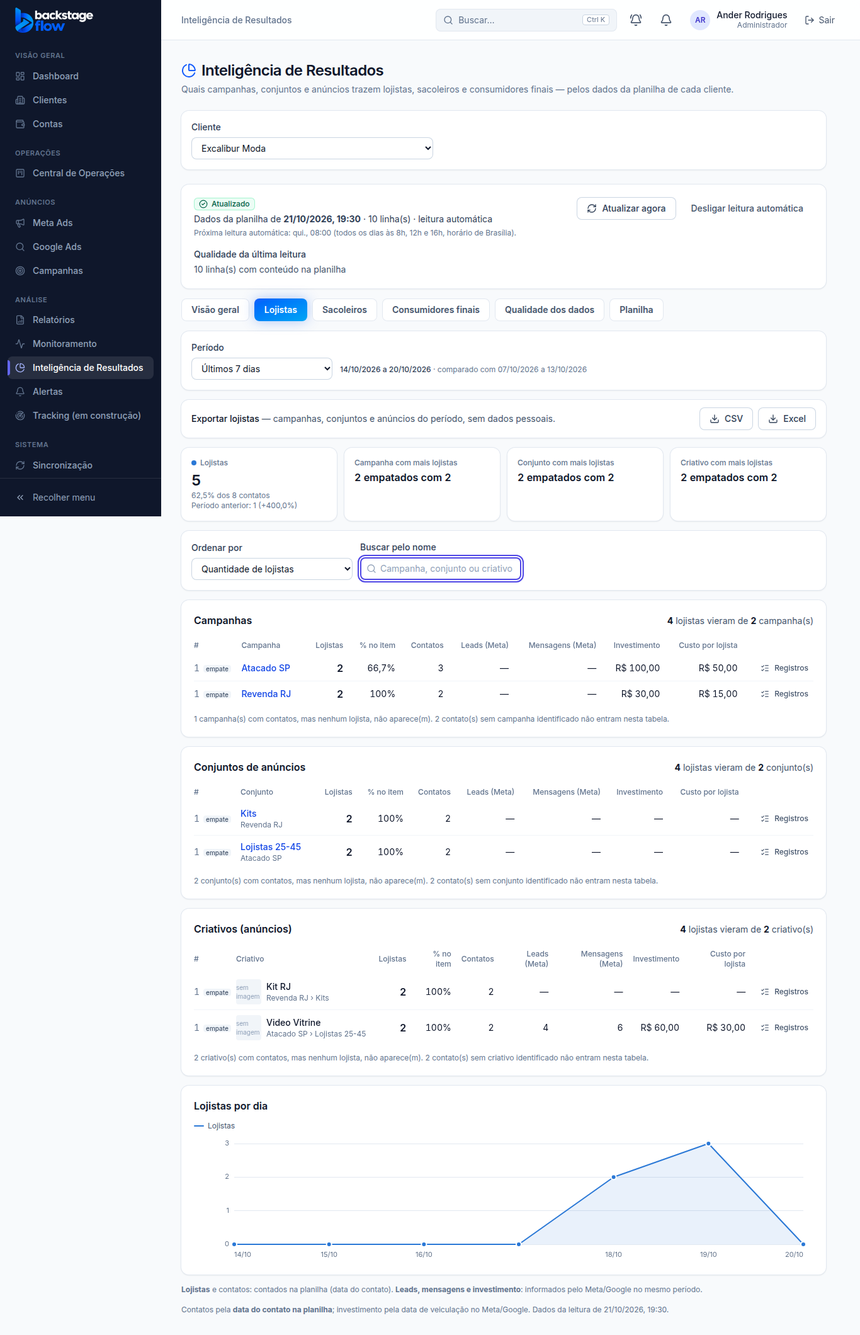
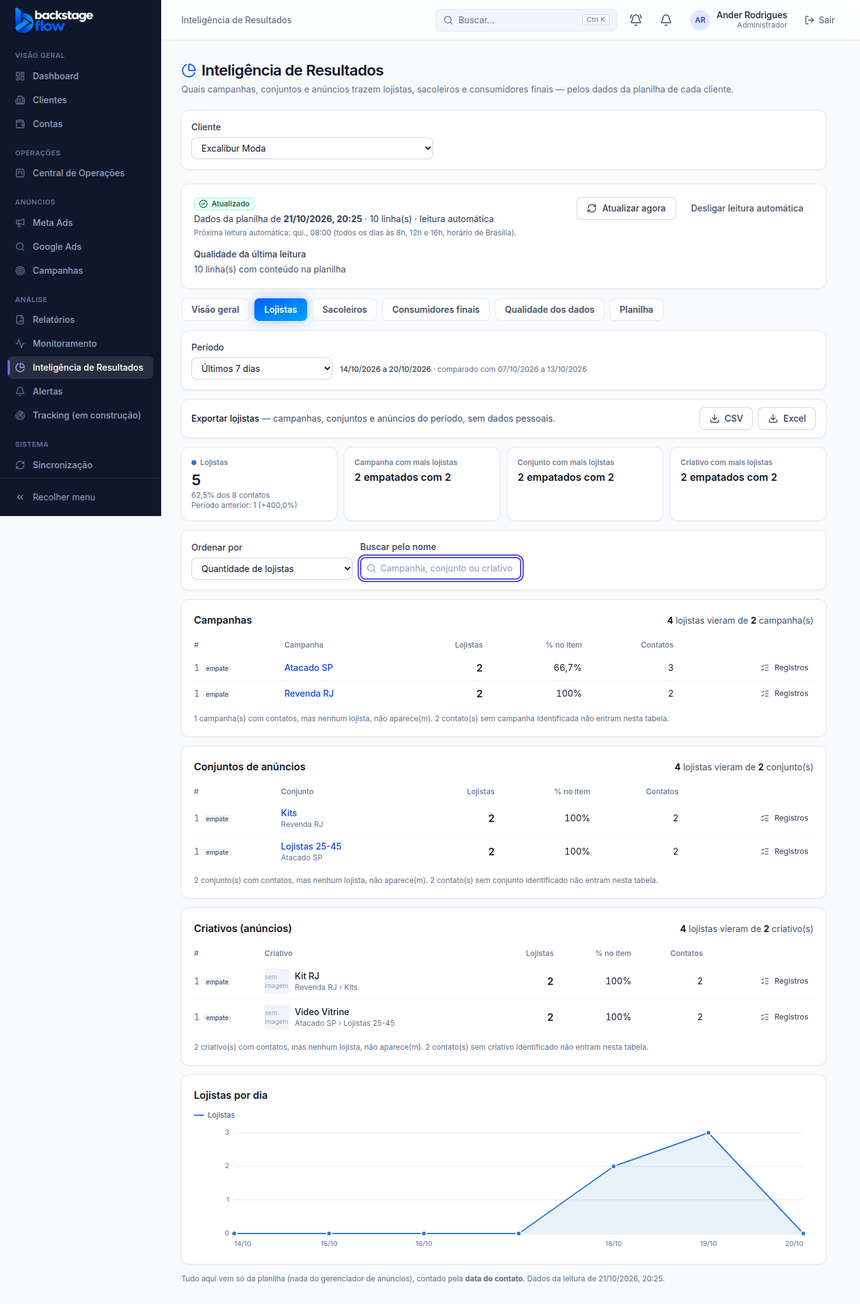
Inteligência de Resultados: só números da planilha, sem dados do gerenciador
Tira das abas de perfil, da Visão geral e da exportação as colunas Leads (Meta),
Mensagens (Meta), Investimento e Custo por perfil, e a ordenação por custo.
A apresentação (campanhas, conjuntos e criativos, filtros, busca, registros)
fica igual. Testes e documentação atualizados.

Claude-Session: https://claude.ai/code/session_01A5ivfSd6VbkwRJFYwrhVNk

diff --git a/apps/web/src/features/results/ResultsDashboard.tsx b/apps/web/src/features/results/ResultsDashboard.tsx
@@ -1,6 +1,6 @@
 import {
-  addDays, classifiedShare, costPerContact, type DateRange, profileShare, rankItems, type RiLevel, type RiProfile,
-  type RiRankMetric, type RiResultItem, type RiResults, type RiSpend, topFor,
+  addDays, classifiedShare, type DateRange, profileShare, rankItems, type RiLevel, type RiProfile,
+  type RiRankMetric, type RiResultItem, type RiResults, topFor,
 } from "@backstage/shared";
 import { ListChecks, Search } from "lucide-react";
 import { useMemo, useState } from "react";
@@ -13,7 +13,7 @@ import { type DashboardFilters, type ResolvedPeriod } from "@/features/dashboard
 import { PeriodPicker } from "@/features/structure/PeriodPicker.tsx";
 import { cn } from "@/lib/cn.ts";
 import { errorMessage } from "@/lib/errors.ts";
-import { formatChange, formatDate, formatDateTime, formatMoney } from "@/lib/format.ts";
+import { formatChange, formatDate, formatDateTime } from "@/lib/format.ts";
 import { type RiDailyRow, type RiSource, useRiDaily, useRiResults } from "./api.ts";
 import { ExportBar } from "./ExportBar.tsx";
 import { PROFILE_LOOK, PROFILES, RANKED_PROFILES } from "./look.ts";
@@ -27,7 +27,6 @@ const LEVEL_LABEL: Record<RiLevel, { one: string; many: string; of: string }> = 
 
 const int = (n: number) => n.toLocaleString("pt-BR");
 const pct = (n: number | null) => (n == null ? "—" : `${n.toLocaleString("pt-BR", { maximumFractionDigits: 1 })}%`);
-const spendText = (spend: RiSpend[]) => (spend.length ? spend.map((s) => formatMoney(s.spend_micros / 1e6, s.currency)).join(" + ") : "—");
 
 export interface ResultsView {
   filters: DashboardFilters;
@@ -108,21 +107,18 @@ function Overview({ clientId, period, onRecords }: { clientId: string; period: R
       <Card className="space-y-3 p-5">
         <div className="flex flex-wrap items-baseline justify-between gap-2">
           <h2 className="text-base font-semibold text-slate-900">Campanhas por perfil</h2>
-          <p className="text-xs text-slate-500">Contatos únicos de cada perfil · investimento do Meta/Google no mesmo período</p>
+          <p className="text-xs text-slate-500">Contatos únicos de cada perfil, contados na planilha</p>
         </div>
         {cur.data.items.length === 0 ? (
           <p className="text-sm text-slate-500">Nenhum contato do período foi ligado a uma campanha.</p>
         ) : (
           <div className="overflow-x-auto">
-            <table className="w-full min-w-[800px] text-sm" data-testid="ri-overview-campaigns">
+            <table className="w-full min-w-[640px] text-sm" data-testid="ri-overview-campaigns">
               <thead className="text-left text-xs text-slate-500">
                 <tr>
                   <th className="py-2 pr-3 font-medium">Campanha</th>
                   <th className="px-2 py-2 text-right font-medium">Contatos</th>
                   {PROFILES.map((pr) => <th key={pr} className="px-2 py-2 text-right font-medium">{PROFILE_LOOK[pr].plural}</th>)}
-                  <th className="px-2 py-2 text-right font-medium">Leads (Meta)</th>
-                  <th className="px-2 py-2 text-right font-medium">Mensagens (Meta)</th>
-                  <th className="py-2 pl-2 text-right font-medium">Investimento</th>
                 </tr>
               </thead>
               <tbody className="divide-y divide-slate-100">
@@ -131,9 +127,6 @@ function Overview({ clientId, period, onRecords }: { clientId: string; period: R
                     <td className="max-w-64 truncate py-2 pr-3 font-medium text-slate-900" title={i.name}>{i.name}</td>
                     <td className="px-2 py-2 text-right tabular-nums">{int(i.contacts)}</td>
                     {PROFILES.map((pr) => <td key={pr} className="px-2 py-2 text-right tabular-nums">{int(i[pr])}</td>)}
-                    <td className="px-2 py-2 text-right tabular-nums">{metaNumber(i.leads)}</td>
-                    <td className="px-2 py-2 text-right tabular-nums">{metaNumber(i.messages)}</td>
-                    <td className="py-2 pl-2 text-right tabular-nums">{spendText(i.spend)}</td>
                   </tr>
                 ))}
               </tbody>
@@ -229,7 +222,7 @@ function OriginNote({ results, onRecords }: { results: RiResults; onRecords: (t:
 function ReadNote({ results }: { results: RiResults }) {
   return (
     <p className="text-xs text-slate-500" data-testid="ri-read-note">
-      Contatos pela <strong>data do contato na planilha</strong>; investimento pela data de veiculação no Meta/Google.
+      Tudo aqui vem só da planilha (nada do gerenciador de anúncios), contado pela <strong>data do contato</strong>.
       {results.read_at && <> Dados da leitura de {formatDateTime(results.read_at)}.</>}
     </p>
   );
@@ -269,8 +262,8 @@ function DailyChart({ range, rows, error, profiles }: { range: DateRange; rows: 
 
 /**
  * Aba de um perfil (pedido do Ander, 21/10/2026): campanhas, conjuntos e criativos
- * aparecem juntos, cada um com a quantidade do perfil (planilha) e os leads/mensagens
- * do Meta. Clicar numa campanha ou conjunto filtra as tabelas de baixo (sem trocar de tela).
+ * aparecem juntos, cada um com a quantidade do perfil. Só números da planilha, nada do
+ * gerenciador de anúncios (correção do Ander, 21/10/2026). Clicar numa campanha ou conjunto filtra as tabelas de baixo (sem trocar de tela).
  */
 function ProfileTab({ clientId, profile, period, view, onRecords }: {
   clientId: string; profile: (typeof RANKED_PROFILES)[number]; period: ResolvedPeriod; view: ResultsView; onRecords: (t: RecordsTarget) => void;
@@ -313,7 +306,6 @@ function ProfileTab({ clientId, profile, period, view, onRecords }: {
               <Select id={id} value={view.metric} onChange={(e) => view.onChange({ ordem: e.target.value as RiRankMetric })}>
                 <option value="count">Quantidade de {look.plural.toLowerCase()}</option>
                 <option value="share">% de {look.plural.toLowerCase()} no item</option>
-                <option value="cost">Custo por {look.label.toLowerCase()} (menor primeiro)</option>
               </Select>
             )}
           </Field>
@@ -350,9 +342,6 @@ function ProfileTab({ clientId, profile, period, view, onRecords }: {
         <h2 className="text-base font-semibold text-slate-900">{look.plural} por dia{view.campaignId && <span className="font-normal text-slate-500"> · {view.adGroupId ? adGroupName : campaignName}</span>}</h2>
         <DailyChart range={period.current} rows={daily.data} error={daily.error} profiles={[profile]} />
       </Card>
-      <p className="text-xs text-slate-500">
-        <strong>{look.plural}</strong> e contatos: contados na planilha (data do contato). <strong>Leads, mensagens e investimento</strong>: informados pelo Meta/Google no mesmo período.
-      </p>
       <ReadNote results={camps.data} />
     </div>
   );
@@ -404,7 +393,7 @@ function LevelSection({ title, level, query, profile, view, onRecords, onOpen, s
         ) : (
           // relative: o texto só para leitor de tela (sr-only) fica preso aqui e não alarga a página no celular.
           <div className="relative overflow-x-auto">
-            <table className="w-full min-w-[860px] text-sm" data-testid="ri-ranking">
+            <table className="w-full min-w-[640px] text-sm" data-testid="ri-ranking">
               <thead className="text-left text-xs text-slate-500">
                 <tr>
                   <th className="py-2 pr-2 font-medium">#</th>
@@ -412,16 +401,11 @@ function LevelSection({ title, level, query, profile, view, onRecords, onOpen, s
                   <th className="px-2 py-2 text-right font-medium">{look.plural}</th>
                   <th className="px-2 py-2 text-right font-medium">% no item</th>
                   <th className="px-2 py-2 text-right font-medium">Contatos</th>
-                  <th className="px-2 py-2 text-right font-medium">Leads (Meta)</th>
-                  <th className="px-2 py-2 text-right font-medium">Mensagens (Meta)</th>
-                  <th className="px-2 py-2 text-right font-medium">Investimento</th>
-                  <th className="px-2 py-2 text-right font-medium">Custo por {look.label.toLowerCase()}</th>
                   <th className="py-2 pl-2"><span className="sr-only">Ações</span></th>
                 </tr>
               </thead>
               <tbody className="divide-y divide-slate-100">
                 {shown.map((r) => {
-                  const cost = costPerContact(r.spend, r[profile]);
                   const selected = selectedId === r.id;
                   return (
                     <tr key={r.id} data-testid="ri-ranking-row" className={cn(selected && "bg-blue-50")}>
@@ -446,12 +430,6 @@ function LevelSection({ title, level, query, profile, view, onRecords, onOpen, s
                       <td className="px-2 py-2 text-right text-base font-semibold tabular-nums text-slate-900">{int(r[profile])}</td>
                       <td className="px-2 py-2 text-right tabular-nums">{pct(profileShare(r, profile))}</td>
                       <td className="px-2 py-2 text-right tabular-nums">{int(r.contacts)}</td>
-                      <td className="px-2 py-2 text-right tabular-nums">{metaNumber(r.leads)}</td>
-                      <td className="px-2 py-2 text-right tabular-nums">{metaNumber(r.messages)}</td>
-                      <td className="px-2 py-2 text-right tabular-nums">{spendText(r.spend)}</td>
-                      <td className="px-2 py-2 text-right tabular-nums" title={cost ? undefined : "Sem investimento informado no período (ou em mais de uma moeda)"}>
-                        {cost ? formatMoney(cost.micros / 1e6, cost.currency) : "—"}
-                      </td>
                       <td className="py-2 pl-2 text-right">
                         <Button type="button" variant="ghost" className="px-2 py-1 text-xs" onClick={() => onRecords({
                           title: `${look.plural} · ${r.name}`, profile,
@@ -481,6 +459,3 @@ function LevelSection({ title, level, query, profile, view, onRecords, onOpen, s
     </Card>
   );
 }
-
-/** Leads/mensagens do Meta: "—" quando a plataforma não informou nada no período. */
-const metaNumber = (n: number | null | undefined) => (n == null ? "—" : int(Math.round(Number(n))));

diff --git a/apps/web/src/features/results/export.ts b/apps/web/src/features/results/export.ts
@@ -1,7 +1,7 @@
 // Etapa 39.5 — exportação da Inteligência de Resultados (CSV e Excel), gerada no navegador
 // a partir dos mesmos números da tela. Sem dados pessoais: só campanhas, conjuntos, anúncios e contagens.
 import {
-  classifiedShare, costPerContact, type DateRange, profileShare, rankItems, RI_PROFILE_LABELS, type RiProfile, type RiResultItem, type RiResults,
+  classifiedShare, type DateRange, profileShare, rankItems, type RiProfile, type RiResultItem, type RiResults,
 } from "@backstage/shared";
 import type { Cell, Report, ReportTable, SheetName } from "@/features/reports/model.ts";
 import { formatDate, formatDateTime } from "@/lib/format.ts";
@@ -14,13 +14,6 @@ const ALL: RiProfile[] = ["lojista", "sacoleiro", "consumidor_final", "nao_ident
 const t = (v: string | null): Cell => ({ value: v, format: "text" });
 const n = (v: number | null): Cell => ({ value: v, format: "integer" });
 const pct = (v: number | null): Cell => ({ value: v, format: "percent" });
-const money = (v: number | null): Cell => ({ value: v, format: "money" });
-
-/** Investimento numa moeda só; com mais de uma moeda (nunca somamos) fica vazio e a coluna Moeda diz quais. */
-function spendCells(item: RiResultItem): [Cell, Cell] {
-  if (item.spend.length === 1) return [money(item.spend[0].spend_micros / 1e6), t(item.spend[0].currency)];
-  return [money(null), t(item.spend.length ? item.spend.map((s) => s.currency).join(" + ") : null)];
-}
 
 type Level = { sheet: SheetName; title: string; data: RiResults; parents: ("campaign" | "ad_group")[] };
 
@@ -30,21 +23,18 @@ function levelTable(l: Level, profile: ExportProfile): ReportTable {
   if (profile === "todos") {
     return {
       title: l.title, sheet: l.sheet, currency: null,
-      columns: [...parentCols, l.title.replace(/s$/, ""), "Contatos", ...ALL.map((p) => PLURAL[p]), "Leads (Meta)", "Mensagens (Meta)", "Investimento", "Moeda", "Linhas ligadas pelo nome"],
+      columns: [...parentCols, l.title.replace(/s$/, ""), "Contatos", ...ALL.map((p) => PLURAL[p]), "Linhas ligadas pelo nome"],
       rows: [...l.data.items].sort((a, b) => b.contacts - a.contacts || a.name.localeCompare(b.name, "pt-BR"))
-        .map((i) => [...parentCells(i), t(i.name), n(i.contacts), ...ALL.map((p) => n(i[p])), n(i.leads ?? null), n(i.messages ?? null), ...spendCells(i), n(i.by_name)]),
+        .map((i) => [...parentCells(i), t(i.name), n(i.contacts), ...ALL.map((p) => n(i[p])), n(i.by_name)]),
     };
   }
-  const label = RI_PROFILE_LABELS[profile].toLowerCase();
   return {
     title: l.title, sheet: l.sheet, currency: null,
     columns: ["Posição", "Empate", ...parentCols, l.title.replace(/s$/, ""), PLURAL[profile], `% de ${PLURAL[profile].toLowerCase()} no item`, "Contatos",
-      "Leads (Meta)", "Mensagens (Meta)", "Investimento", "Moeda", `Custo por ${label}`, "Linhas ligadas pelo nome"],
-    rows: rankItems(l.data.items, profile, "count").map((r) => {
-      const cost = costPerContact(r.spend, r[profile]);
-      return [n(r.position), t(r.tied ? "sim" : "não"), ...parentCells(r), t(r.name), n(r[profile]), pct(profileShare(r, profile)), n(r.contacts),
-        n(r.leads ?? null), n(r.messages ?? null), ...spendCells(r), money(cost ? cost.micros / 1e6 : null), n(r.by_name)];
-    }),
+      "Linhas ligadas pelo nome"],
+    rows: rankItems(l.data.items, profile, "count").map((r) => [
+      n(r.position), t(r.tied ? "sim" : "não"), ...parentCells(r), t(r.name), n(r[profile]), pct(profileShare(r, profile)), n(r.contacts), n(r.by_name),
+    ]),
   };
 }
 
@@ -91,7 +81,7 @@ export function resultsReport(input: ResultsExportInput): Report {
       `Período: ${formatDate(input.range.from)} a ${formatDate(input.range.to)} (data do contato na planilha)`,
       `Perfil: ${who}`,
       input.campaigns.read_at ? `Dados da leitura da planilha de ${formatDateTime(input.campaigns.read_at)}` : "Planilha ainda não lida",
-      "Investimento: Meta/Google no mesmo período, na moeda de cada conta (moedas nunca são somadas).",
+      "Só números da planilha (nada do gerenciador de anúncios).",
       "Sem dados pessoais: nenhum telefone, e-mail ou nome.",
     ],
     generatedAt: formatDateTime(input.generatedAt.toISOString()),

diff --git a/apps/web/src/features/results/export.test.ts b/apps/web/src/features/results/export.test.ts
@@ -22,19 +22,15 @@ const camps = results([
 const base = { clientName: "Excalibur Moda", range: { from: "2026-10-10", to: "2026-10-16" }, campaigns: camps, adGroups: results([]), ads: results([]), generatedAt: new Date("2026-10-18T12:00:00Z") };
 
 describe("exportação da Inteligência de Resultados (Etapa 39.5)", () => {
-  it("por perfil: ranking com posição, empate, custo e sem misturar moedas", () => {
+  it("por perfil: ranking com posição e empate; só números da planilha (nada do gerenciador)", () => {
     const r = resultsReport({ ...base, profile: "lojista" });
     const t = r.tables.find((x) => x.sheet === "Campanhas")!;
     expect(t.columns.slice(0, 4)).toEqual(["Posição", "Empate", "Campanha", "Lojistas"]);
     expect(t.rows.map((row) => [row[0].value, row[1].value, row[2].value, row[3].value])).toEqual([
       [1, "sim", "Atacado SP", 2], [1, "sim", "Revenda RJ", 2], [3, "não", "Global", 1],
     ]);
-    const custo = t.columns.indexOf("Custo por lojista");
-    expect(t.rows[1][custo].value).toBe(15);
-    const global = t.rows[2];
-    expect(global[t.columns.indexOf("Investimento")].value).toBeNull();
-    expect(global[t.columns.indexOf("Moeda")].value).toBe("BRL + USD");
-    expect(global[custo].value).toBeNull();
+    for (const col of ["Leads (Meta)", "Mensagens (Meta)", "Investimento", "Moeda", "Custo por lojista"]) expect(t.columns).not.toContain(col);
+    expect(r.filters.join(" ")).not.toMatch(/investimento/i);
     expect(t.rows.some((row) => row[2].value === "Varejo")).toBe(false);
   });
 
@@ -42,6 +38,7 @@ describe("exportação da Inteligência de Resultados (Etapa 39.5)", () => {
     const r = resultsReport({ ...base, profile: "todos" });
     const t = r.tables.find((x) => x.sheet === "Campanhas")!;
     expect(t.columns).toContain("Não identificados");
+    expect(t.columns).not.toContain("Investimento");
     expect(t.rows.map((row) => row[0].value)).toEqual(["Atacado SP", "Revenda RJ", "Global", "Varejo"]);
     const csv = reportCsvRows(r).map((l) => l.join(";")).join("\n");
     expect(csv).toContain("Cliente: Excalibur Moda");

diff --git a/apps/web/src/features/results/ResultsPage.tsx b/apps/web/src/features/results/ResultsPage.tsx
@@ -62,7 +62,7 @@ export function ResultsPage() {
     tab: tab === "planilha" || tab === "qualidade" ? "visao" : tab,
     campaignId: uuidParam(params.get("campanha")),
     adGroupId: uuidParam(params.get("conjunto")),
-    metric: (["count", "share", "cost"] as const).find((m) => m === params.get("ordem")) ?? "count",
+    metric: (["count", "share"] as const).find((m) => m === params.get("ordem")) ?? "count",
     search: params.get("busca") ?? "",
     onChange: (patch) => setParam({
       ...("campanha" in patch ? { campanha: patch.campanha ?? null } : {}),

diff --git a/docs/claude/ESTADO-ATUAL.md b/docs/claude/ESTADO-ATUAL.md
@@ -3,7 +3,7 @@
 > Atualize este arquivo ao fim de cada fase: o que ficou pronto, o que ficou pendente e a próxima decisão do Ander.
 
 ## 1. Última entrega
-- **Etapa 39 (Inteligência de Resultados, Google Sheets):** plano `docs/etapa-39-inteligencia-de-resultados/39.0-PLANO.md`, aprovado com mudanças (planilha é o banco; leitura 8h/12h/16h + botão; sem guardar contatos). **39.1 pronta** (17/10): chave da conta de serviço no Vault (`google_sheets_key`, `sheets_settings`), planilha por cliente (`ri_sources`), Edge Function `sheets` publicada (verify_jwt true), menu e assistente. **39.2 pronta** (17/10): leitura 8h/12h/16h (cron `sheets-read`, 11/15/19 UTC) + botão "Atualizar agora"; só a última leitura fica em `ri_snapshots` (sem dados pessoais legíveis, contato em hash); situação/falhas em `ri_sources`; Edge Function `sheets` agora com verify_jwt **false** (ela confere login ou segredo do cron). Falta a chave real do Ander (nada testado com planilha real). **39.3 pronta** (17/10): `ri_results`/`ri_records` + `private.ri_rows` (perfil pelas regras na hora da consulta; origem por ID anúncio→conjunto→campanha, ou nome único; contato único por hash), regras de ranking em `packages/shared/src/results/ranking.ts`. **39.4 pronta** (17/10): abas Visão geral/Lojistas/Sacoleiros/Consumidores/Planilha em `features/results` (ResultsDashboard, RecordsModal, look.ts), `ri_daily`, atalho na ficha do cliente, mock com a mesma regra de ligação (`riRows`). **39.5 pronta** (18/10): aba Qualidade dos dados (`ri_quality`, `ri_records` sem período), exportação CSV/Excel por perfil (`features/results/export.ts`, reaproveita `reportXlsx` com abas Conjuntos/Anúncios). **Etapa 39 completa no código; falta a primeira leitura real** (chave do Google do Ander). **19/10:** parâmetros da planilha refeitos (`39.6-PARAMETROS-DA-PLANILHA.md`): Nome (não guardado), Número, SQL (era "Perfil comercial"), Data, utm_source/medium/campaign/content/term, IDs, gclid/fbclid (só a marcação), personalizados `x:<nome>` (até 20); `ri_records_extra`; Edge Function `sheets` v3. **21/10:** aba de cada perfil mostra campanhas, conjuntos e criativos juntos (`LevelSection` em `ResultsDashboard.tsx`), com Leads/Mensagens do Meta (`ri_results` → `leads`/`messages`); ponto de volta em `docs/PONTO-DE-RESTAURACAO.md`.
+- **Etapa 39 (Inteligência de Resultados, Google Sheets):** plano `docs/etapa-39-inteligencia-de-resultados/39.0-PLANO.md`, aprovado com mudanças (planilha é o banco; leitura 8h/12h/16h + botão; sem guardar contatos). **39.1 pronta** (17/10): chave da conta de serviço no Vault (`google_sheets_key`, `sheets_settings`), planilha por cliente (`ri_sources`), Edge Function `sheets` publicada (verify_jwt true), menu e assistente. **39.2 pronta** (17/10): leitura 8h/12h/16h (cron `sheets-read`, 11/15/19 UTC) + botão "Atualizar agora"; só a última leitura fica em `ri_snapshots` (sem dados pessoais legíveis, contato em hash); situação/falhas em `ri_sources`; Edge Function `sheets` agora com verify_jwt **false** (ela confere login ou segredo do cron). Falta a chave real do Ander (nada testado com planilha real). **39.3 pronta** (17/10): `ri_results`/`ri_records` + `private.ri_rows` (perfil pelas regras na hora da consulta; origem por ID anúncio→conjunto→campanha, ou nome único; contato único por hash), regras de ranking em `packages/shared/src/results/ranking.ts`. **39.4 pronta** (17/10): abas Visão geral/Lojistas/Sacoleiros/Consumidores/Planilha em `features/results` (ResultsDashboard, RecordsModal, look.ts), `ri_daily`, atalho na ficha do cliente, mock com a mesma regra de ligação (`riRows`). **39.5 pronta** (18/10): aba Qualidade dos dados (`ri_quality`, `ri_records` sem período), exportação CSV/Excel por perfil (`features/results/export.ts`, reaproveita `reportXlsx` com abas Conjuntos/Anúncios). **Etapa 39 completa no código; falta a primeira leitura real** (chave do Google do Ander). **19/10:** parâmetros da planilha refeitos (`39.6-PARAMETROS-DA-PLANILHA.md`): Nome (não guardado), Número, SQL (era "Perfil comercial"), Data, utm_source/medium/campaign/content/term, IDs, gclid/fbclid (só a marcação), personalizados `x:<nome>` (até 20); `ri_records_extra`; Edge Function `sheets` v3. **21/10:** aba de cada perfil mostra campanhas, conjuntos e criativos juntos (`LevelSection` em `ResultsDashboard.tsx`), ponto de volta em `docs/PONTO-DE-RESTAURACAO.md`. No mesmo dia, a pedido do Ander, a tela e a exportação passaram a mostrar **só números da planilha** (sem leads, mensagens, investimento ou custo do gerenciador; o banco ainda calcula `leads`/`messages`/`spend` em `ri_results`, mas nada usa).
 - **Frase do resumo dos relatórios (13/10/2026):** editável por cliente com marcadores (`client_report_settings.summary_template`), desligável também no e-mail semanal; nome do resultado como foi escrito. Edge Function `client-report-email` publicada (versão 2). Documento: `docs/etapa-19-dashboard-cliente/CORRECAO-2026-10-13-FRASE-DO-RESUMO.md`.
 - **Correção do saldo PIX (13/10/2026):** a conta "CA - Estilo de Ser Kids" (cartão cadastrado, campanhas rodando com PIX) usa saldo **informado no CRM**: recargas registradas − gasto que o Meta informa depois. Só contas com `ad_accounts.manual_prepaid` (ligado só nela). Tabela `account_manual_balance_entries`. Documento: `docs/etapa-07-verificacao-saldo/CORRECAO-2026-10-13-SALDO-PIX-INFORMADO.md`.
 - **Correção do saldo (28/09/2026):**

diff --git a/docs/etapa-39-inteligencia-de-resultados/39.7-APRESENTACAO-POR-PERFIL.md b/docs/etapa-39-inteligencia-de-resultados/39.7-APRESENTACAO-POR-PERFIL.md
@@ -12,20 +12,31 @@
    - **Conjuntos de anúncios** (com a campanha embaixo do nome);
    - **Criativos (anúncios)**, com a miniatura quando o Meta informa e "campanha › conjunto" embaixo do nome.
 2. **Resumo em cada tabela:** "4 lojistas vieram de 2 criativo(s)".
-3. **Colunas:** quantidade do perfil (planilha), % do perfil no item, contatos, **Leads (Meta)**, **Mensagens (Meta)**, investimento, custo por contato do perfil e o botão **Registros** (as linhas da planilha daquele item).
+3. **Colunas:** quantidade do perfil, % do perfil no item, contatos e o botão **Registros** (as linhas da planilha daquele item). Tudo contado na planilha (ver a correção abaixo).
 4. **Clicar numa campanha** mostra só os conjuntos e criativos dela; **clicar num conjunto** mostra só os criativos dele. As campanhas continuam na tela, e um aviso "Mostrando só: Campanha …" com ✕ volta a mostrar tudo.
-5. **Ordenar** (quantidade, % ou custo) e **buscar pelo nome** valem para as três tabelas (a busca acha campanha, conjunto ou criativo).
+5. **Ordenar** (quantidade ou %) e **buscar pelo nome** valem para as três tabelas (a busca acha campanha, conjunto ou criativo).
 6. Cada tabela mostra as 10 primeiras e tem "Ver todos".
-7. A Visão geral e a exportação CSV/Excel ganharam as colunas Leads (Meta) e Mensagens (Meta).
+7. A Visão geral e a exportação CSV/Excel mostram só os números da planilha.
 
 ## Regras
-- Quantidade do perfil e contatos vêm **da planilha** (data do contato); leads, mensagens e investimento vêm **do Meta/Google** no mesmo período. A tela avisa isso embaixo.
-- Sem dado da plataforma no período → "—" (nada inventado).
+- **Só números da planilha** (data do contato). Nada do gerenciador de anúncios: sem leads, mensagens, investimento ou custo. A tela avisa isso embaixo.
+- Do Meta/Google ficam só os **nomes** das campanhas, conjuntos e criativos (e a miniatura), para dar nome às linhas da planilha.
+
+## Correção do mesmo dia: só a planilha (21/10/2026)
+> Ander: "Nesse ponto da inteligência de dados, eu não quero que sejam puxados dados da BM. Eu quero os dados somente da
+> planilha. Por exemplo, tem 50 nomes, 20 são sacoleiros, 20 são lojistas e 10 são consumidores finais. Eu quero essa
+> divisão somente na quantidade. [...] Eu não quero nada do gerenciador. [...] a apresentação tá boa."
+
+- Saíram da tela (abas de perfil e Visão geral) as colunas **Leads (Meta)**, **Mensagens (Meta)**, **Investimento** e **Custo por perfil**.
+- Saiu a opção "Ordenar por custo" (um endereço antigo com `ordem=cost` volta para "quantidade").
+- Saíram da exportação CSV/Excel as colunas Leads, Mensagens, Investimento, Moeda e Custo; o cabeçalho diz "Só números da planilha".
+- A apresentação (três tabelas, resumo, filtros, busca, registros, gráfico) ficou igual.
+- O banco não mudou: a função ainda calcula esses números, mas a tela e a exportação não os usam mais.
 
 ## Banco
-- Migração `20261021192656_ri_meta_counts.sql`: a função de resultados passa a trazer leads e mensagens de cada item. **Nenhuma tabela nova.**
+- Migração `20261021192656_ri_meta_counts.sql`: a função de resultados passa a trazer leads e mensagens de cada item (hoje **não usados** pela tela, ver a correção acima). **Nenhuma tabela nova.**
 - Ponto de volta do banco: `supabase/rollback/voltar_ri_apresentacao_2026_10_21.sql`.
 
 ## Testes
 - SQL: `supabase/tests/ri_apresentacao_perfil.sql` (leads/mensagens por criativo; sem dado = vazio) — OK no banco real (desfeito).
-- Navegador: `e2e/results-dashboard.mjs` — 42 verificações (três tabelas na mesma tela, resumo, criativo com campanha › conjunto, leads e mensagens, filtro por campanha e conjunto, busca nas três tabelas, registros do criativo, tirar o filtro). Demais testes do módulo ajustados e passando.
+- Navegador: `e2e/results-dashboard.mjs` — 42 verificações (três tabelas na mesma tela, resumo, criativo com campanha › conjunto, sem colunas do gerenciador, filtro por campanha e conjunto, busca nas três tabelas, registros do criativo, tirar o filtro). Demais testes do módulo ajustados e passando.

diff --git a/docs/claude/HISTORICO.md b/docs/claude/HISTORICO.md
@@ -93,6 +93,7 @@
 - **05/10 (Etapa 38):** Ander achou a Central confusa e pediu o comercial separado da operação, com o cliente passando para a operação quando liberado; a aba "Clientes" virou "Operação". Plano em 2 fases (38.1 telas; 38.2 botão de liberar).
 - **Relatório final:** `docs/etapa-37-monitoramento/37.7-RELATORIO-FINAL.md`.
 - **21/10 (apresentação por perfil):** Ander achou confuso ter de clicar campanha → conjunto → anúncio. Pediu ver de cara campanhas, conjuntos e a lista de criativos que trouxeram cada perfil (ex.: 10 lojistas: 5 de um criativo, 5 de outro), com ponto de volta. Feito: três tabelas na mesma aba, filtro por clique, Leads/Mensagens do Meta.
+- **21/10 (só a planilha):** Ander não quer nada do gerenciador (BM) na Inteligência de Resultados: só a divisão por perfil contada na planilha ("tem 50 nomes, 20 são sacoleiros, 20 são lojistas e 10 são consumidores finais"). Saíram Leads/Mensagens (Meta), Investimento e Custo da tela e da exportação; a apresentação ficou igual.
 - **19/10 (parâmetros da planilha):** Ander mandou a lista de parâmetros (Nome, Número, Perfil de Lojista (SQL), Data, UTMs, IDs, gclid, fbclid) e pediu personalizados. Decidiu: o campo de perfil se chama só "SQL"; **continuar sem guardar dados pessoais** (chegou a pedir nome e número legíveis, mas voltou atrás: "a planilha é só leitura, não quero guardar dados"); o resto do funcionamento fica igual.
 - **18/10 (Etapa 39.5):** aprovada com "pode avancar". Qualidade olha a planilha inteira e diz o que corrigir em cada problema; exportação CSV/Excel por perfil, sem dados pessoais. Etapa 39 fechada no código; o teste final é a primeira leitura real.
 - **17/10 (Etapa 39.4):** aprovada com "pode". Tela com abas por perfil, ranking que abre campanha → conjunto → anúncio, registros sem dados pessoais e atalho na ficha do cliente; configuração da planilha passou para a aba "Planilha".
